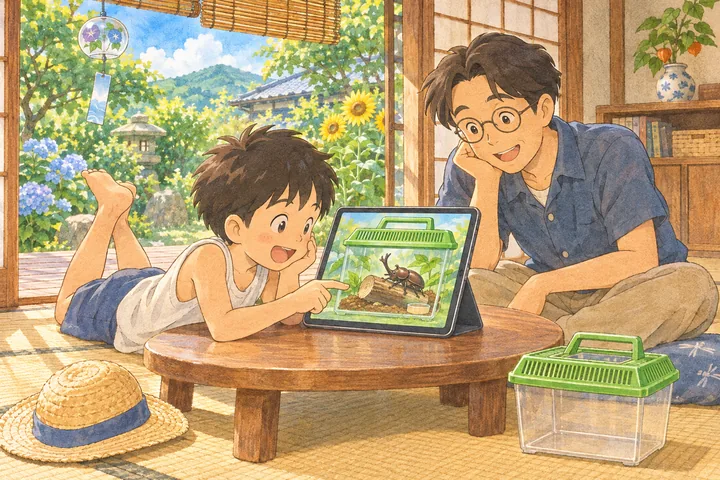
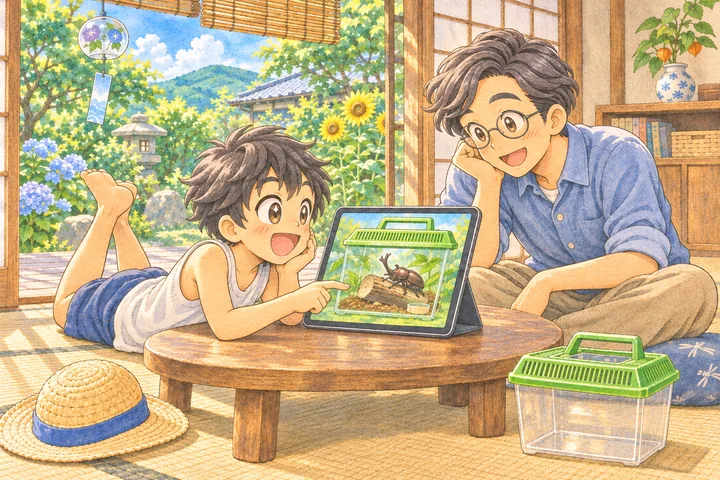
虫そだて日記ページ：流れの見出しを1行に、そと／おうちと道具のアイコン、③の絵をタッチをそろえて描き直し

diff --git a/mushisodate/index.html b/mushisodate/index.html
@@ -22,7 +22,7 @@
 <link rel="preconnect" href="https://fonts.googleapis.com">
 <link rel="preconnect" href="https://fonts.gstatic.com" crossorigin>
 <link href="https://fonts.googleapis.com/css2?family=Mochiy+Pop+One&family=Zen+Maru+Gothic:wght@500;700;900&display=swap" rel="stylesheet">
-<link rel="stylesheet" href="../assets/css/style.css?v=202611171600">
+<link rel="stylesheet" href="../assets/css/style.css?v=202611170300">
 </head>
 <body class="subpage" data-base="../">
 
@@ -84,17 +84,17 @@
       </section>
 
       <section class="doc g-flow reveal">
-        <h2><span class="h-ic" data-icon="pin"></span>そとで虫とり＆スマホでもゲット！<br>おうちで虫の観察＆タブレットでも</h2>
+        <h2 class="f-h2"><span class="h-ic" data-icon="pin"></span><span>そとで虫とり＆<wbr>スマホでもキャッチ！<wbr>おうちで虫の観察＆<wbr>タブレットでも</span></h2>
         <p>本物の虫とりと、ゲームの体験を いっしょに楽しめます。</p>
         <ol class="g-flow-list">
           <li class="reveal"><figure><img src="../assets/img/games/mushisodate/f_sagasu.webp?v=2" alt="神社の近くの大きな木で、カブトムシを見つけた男の子と、スマホを持ったおとうさん" width="720" height="480" loading="lazy"></figure>
-            <p class="f-dev"><img src="../assets/img/icons/pin.webp" alt="" width="24" height="24">そと・虫とり</p><h3>虫とり＆スマホでゲット</h3>
+            <p class="f-tags"><span class="f-place f-soto"><img src="../assets/img/icons/mountain.webp" alt="" width="28" height="28">そと</span><span class="f-item"><img src="../assets/img/games/mushisodate/i_net.webp" alt="" width="26" height="26">虫とり</span></p><h3>虫とり＆スマホでキャッチ</h3>
             <p>公園や神社、川や海べで虫とり。スマホのゲームでも、その場所らしい虫が見つかります。</p></li>
           <li class="reveal"><figure><img src="../assets/img/games/mushisodate/f_toru.webp" alt="花にとまったアゲハチョウを、スマホのカメラで撮る男の子" width="720" height="480" loading="lazy"></figure>
-            <p class="f-dev"><img src="../assets/img/icons/camera.webp" alt="" width="24" height="24">そと・スマホのカメラ</p><h3>撮る</h3>
+            <p class="f-tags"><span class="f-place f-soto"><img src="../assets/img/icons/mountain.webp" alt="" width="28" height="28">そと</span><span class="f-item"><img src="../assets/img/icons/camera.webp" alt="" width="26" height="26">スマホのカメラ</span></p><h3>見つけた虫を撮る</h3>
             <p>本物の虫を見つけたら、カメラでパチリ。「どの虫だった？」からえらぶと、その虫をつかまえられます。</p></li>
-          <li class="reveal"><figure><img src="../assets/img/games/mushisodate/f_sodateru.webp" alt="おうちで、タブレットの虫かごの画面を見ながら虫をそだてる男の子とおとうさん" width="720" height="480" loading="lazy"></figure>
-            <p class="f-dev f-dev-long"><img src="../assets/img/icons/home.webp" alt="" width="24" height="24">おうち・虫のしいく<br>タブレット／パソコン</p><h3>観察して、そだてる</h3>
+          <li class="reveal"><figure><img src="../assets/img/games/mushisodate/f_sodateru.webp?v=2" alt="おうちで、タブレットの虫かごの画面を見ながら虫をそだてる男の子とおとうさん" width="720" height="480" loading="lazy"></figure>
+            <p class="f-tags"><span class="f-place f-uchi"><img src="../assets/img/icons/home.webp" alt="" width="28" height="28">おうち</span><span class="f-item"><img src="../assets/img/games/mushisodate/i_kago.webp" alt="" width="26" height="26">虫のしいく</span><span class="f-item"><img src="../assets/img/games/mushisodate/i_tablet.webp" alt="" width="26" height="26">タブレット</span><span class="f-item"><img src="../assets/img/games/mushisodate/i_pc.webp" alt="" width="26" height="26">パソコン</span></p><h3>観察して、そだてる</h3>
             <p>つかまえた虫は、QRコードでタブレットやパソコンへ。本物の虫の観察といっしょに、そだてよう。</p></li>
         </ol>
         <p class="g-small">※虫をそだてるのは、画面の大きなタブレット・パソコンがおすすめです。スマホは、外で虫をつかまえる「虫とり用」に。</p>

diff --git a/assets/css/style.css b/assets/css/style.css
@@ -1627,3 +1627,15 @@ img.dd { height: auto; pointer-events: none; filter: drop-shadow(0 3px 0 rgba(38
 .g-flow-list .f-dev-long { white-space: normal; border-radius: 14px; line-height: 1.5; }
 .g-flow h2 { line-height: 1.5; }
 .g-steps .st-ic { display: block; width: 64px; height: 64px; object-fit: contain; margin: 0 auto 6px; }
+/* 虫そだて日記：「そと」「おうち」と、使うもののアイコン */
+.g-flow-list .f-tags { display: flex; flex-wrap: wrap; gap: 6px; margin: 4px 0 4px; }
+.g-flow-list .f-tags span { display: inline-flex; align-items: center; gap: .3em; font-size: .8rem; font-weight: 900; border-radius: 999px; padding: .15em .75em .15em .35em; white-space: nowrap; }
+.g-flow-list .f-tags img { width: 1.7em; height: 1.7em; border: 0; box-shadow: none; border-radius: 0; margin: -.2em 0; }
+.g-flow-list .f-place { color: #fff; border: 2px solid var(--ink); }
+.g-flow-list .f-soto { background: #5DB63E; }
+.g-flow-list .f-uchi { background: #E8833A; }
+.g-flow-list .f-place img { background: #fff; border-radius: 50%; padding: 2px; }
+.g-flow-list .f-item { background: #fff; border: 2px solid var(--ink); }
+/* 虫そだて日記：流れの見出しは1行。せまい画面では言葉の切れ目（＆・！のあと）で折り返す */
+.f-h2 > span:last-child { word-break: keep-all; }
+@media (min-width: 1100px) { .doc h2.f-h2 { font-size: 1.2rem; } }

diff --git a/index.html b/index.html
@@ -38,7 +38,7 @@
 <link rel="preconnect" href="https://fonts.googleapis.com">
 <link rel="preconnect" href="https://fonts.gstatic.com" crossorigin>
 <link href="https://fonts.googleapis.com/css2?family=Mochiy+Pop+One&family=Zen+Maru+Gothic:wght@500;700;900&display=swap" rel="stylesheet">
-<link rel="stylesheet" href="assets/css/style.css?v=202611171600">
+<link rel="stylesheet" href="assets/css/style.css?v=202611170300">
 </head>
 <body>
 
